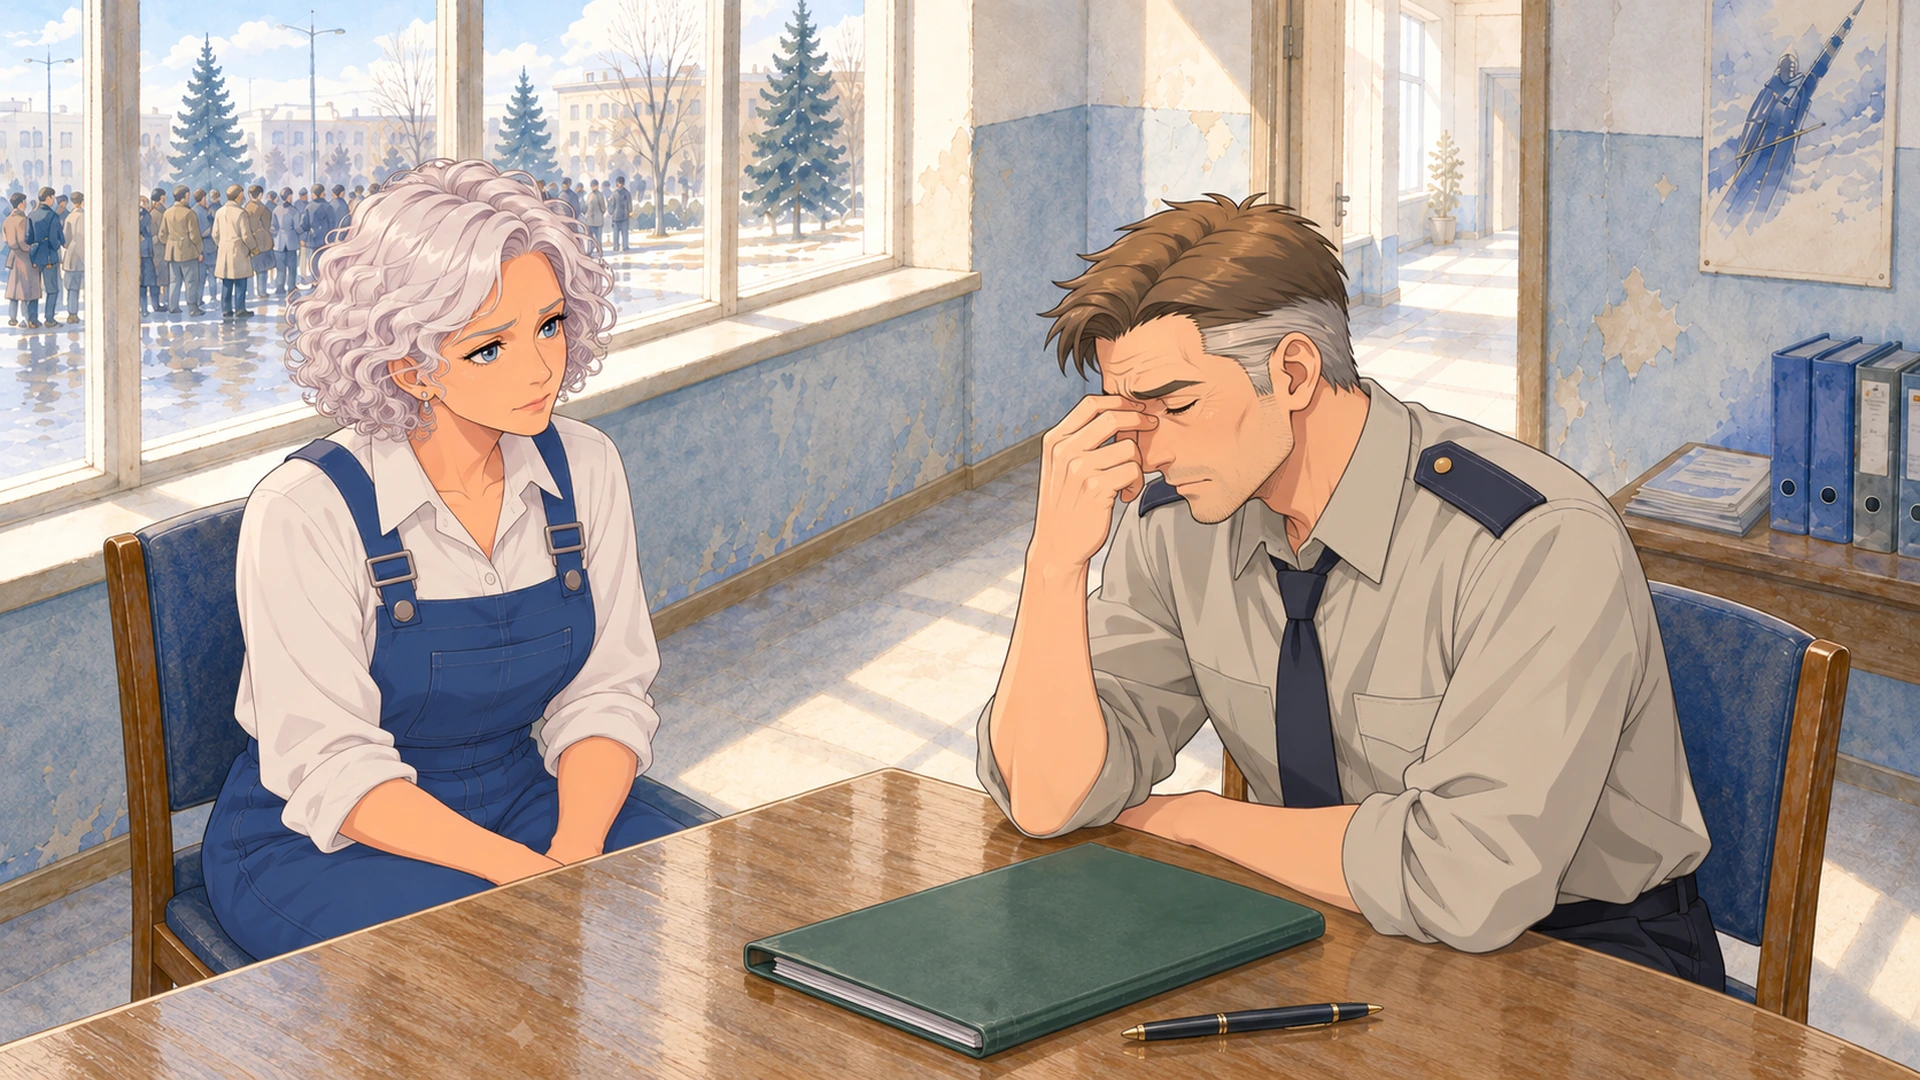
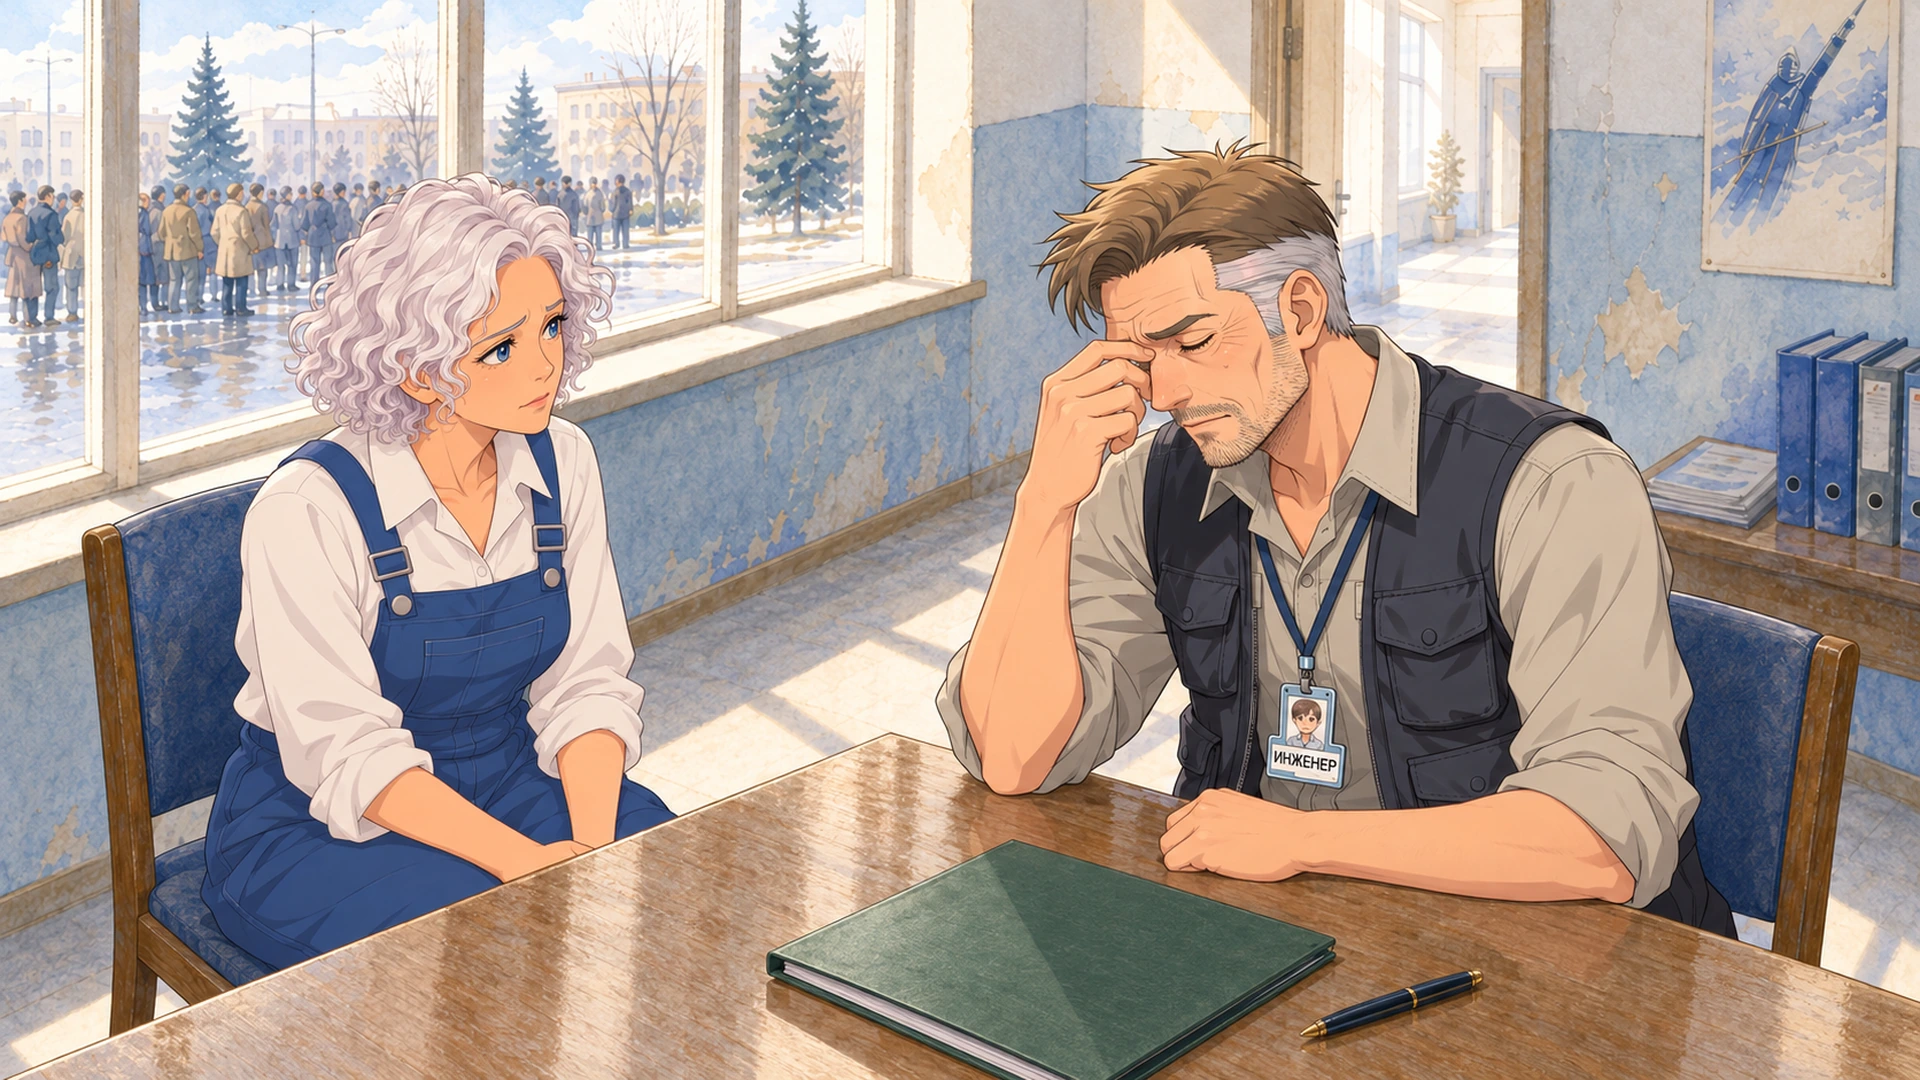
vn2: CG P4 v3 — Сергей как спрайт (щетина, жилет, бейдж)
- Иван забраковал v2: Сергей был выбрит и в галстуке, а на спрайте он небритый,
  в тёмном рабочем жилете поверх бежевой рубашки и с бейджем «ИНЖЕНЕР»
- _cg_p4v3.py: референсы = принятый кабинет cg_room_a + спрайт Сергея + тесный
  кроп лица/жилета/бейджа (_ref_sergey_face_0.png) как жёсткий лок внешности;
  в промпте явные запреты (галстука НЕТ, погон НЕТ) и ровно одна надпись в кадре
- принят вариант A (общий план от окна): CG_P4 = 'cg_p4v3_a', rec_35 пересобран
- регрессы: _vn2_cg_range 10/10, _vn2_ded_credits, _vn2_restart 3/3,
  _vn2_auto_menu, _vn2_start_mobile — всё зелёное

diff --git a/_cg_p4v3.py b/_cg_p4v3.py
@@ -1,0 +1,99 @@
+# -*- coding: utf-8 -*-
+"""P4 v3 — CG «двое в приёмной» (стр. 35 SCRIPT_CAST.md), Сергей ОДИН В ОДИН со спрайта.
+
+Правка Ивана 2026-10-25: в v2 Сергей был выбрит и в галстуке, а на спрайте он НЕБРИТЫЙ,
+в тёмном рабочем жилете и с бейджем «ИНЖЕНЕР». Совмещаем: персонаж = спрайт
+(лицо, щетина, жилет, бейдж), сцена = наш кабинет (cg_room_a), весна за окном.
+
+Бит кадра: «Сергей потер переносицу, подбирая слова, чтобы не обидеть собеседницу» —
+ему тяжело, она ещё надеется. Не приветствие, улыбок нет.
+
+Модель gpt-image-2, 16:9 1K = 4.06 ₽/кадр.
+"""
+import os, sys
+import gen, pv
+import _cg_rec23 as R
+
+HERE = os.path.dirname(os.path.abspath(gen.__file__))
+REF_ROOM = R.REF_ROOM
+REF_SERGEY = R.REF_SERGEY
+# тесный кроп спрайта (лицо + щетина + жилет + бейдж) — сильнее держит детали
+REF_SERGEY_CROP = os.path.join(HERE, "assets", "gen", "_ref_sergey_face_0.png")
+
+
+def make_crop():
+    from PIL import Image
+    im = Image.open(REF_SERGEY)
+    w, h = im.size
+    box = (int(w * 0.06), int(h * 0.00), int(w * 0.94), int(h * 0.86))
+    c = im.crop(box)
+    c.save(REF_SERGEY_CROP)
+    return REF_SERGEY_CROP
+
+# Единственная надпись, которую разрешаем модели — слово на бейдже
+TEXT_OK = (
+    "Из надписей в кадре — ТОЛЬКО слово «ИНЖЕНЕР» на бейдже Сергея, печатными буквами, "
+    "мелко и аккуратно. Никаких других надписей, букв, цифр и водяных знаков: ни на плакате, "
+    "ни на папке, ни на документах, ни на стене. "
+)
+
+SERGEY_P4 = (
+    "Сергей Лихнецкий — ОДИН В ОДИН как на втором и третьем приложенных кадрах (это его спрайт): мужчина "
+    "30–35 лет, короткие тёмно-русые волосы с проседью на висках, светлые глаза, ЛЁГКАЯ "
+    "НЕБРИТОСТЬ — короткая щетина на подбородке, щеках и над верхней губой (он НЕ чисто выбрит, "
+    "бритья нет). Одежда ровно та же, что на спрайте: тёмно-графитовый рабочий жилет с накладными "
+    "карманами и молнией поверх светло-бежевой рубашки с подвёрнутыми рукавами, на шее тёмно-синий "
+    "шнурок, на груди прямоугольный бейдж. Галстука НЕТ, погон НЕТ, форменного кителя НЕТ. "
+    "Он сидит за письменным столом, отвёл взгляд в сторону, двумя пальцами потирает переносицу — "
+    "ему тяжело подбирать слова; улыбки нет, брови сведены. Перед ним закрытая зелёная папка "
+    "с документами и ручка. "
+)
+KATE_P4 = R.KATE  # Екатерина — как в принятом CG приёмной
+KATE_P4 = (
+    "Екатерина Ивановна: женщина 50-55 лет, короткие седые ВЬЮЩИЕСЯ волосы до подбородка, яркие "
+    "голубые глаза, мягкое доброе лицо с лёгкими морщинками, синий рабочий комбинезон на лямках "
+    "поверх светлой рубашки. Она сидит на стуле с синей обивкой перед столом, спина прямая, руки "
+    "на коленях, смотрит на Сергея внимательно и ещё с надеждой — без улыбки, без слёз. "
+)
+
+SCENES = {
+    # A — средний план со стороны окна: оба в три четверти, папка между ними
+    "cg_p4v3_a": (
+        "CG-кадр визуальной новеллы 16:9: тяжёлый разговор в приёмной комиссии. "
+        + R.ROOM + SERGEY_P4 + KATE_P4 + R.WINDOW +
+        "РАКУРС: средний план от окна, камера чуть выше уровня стола. Сергей справа за столом, "
+        "Екатерина слева на стуле, между ними по диагонали край стола с закрытой папкой. Оба лица "
+        "хорошо читаются, но лицо и одежда Сергея — главное. " + R.STYLE + TEXT_OK
+    ),
+    # B — через плечо Екатерины на Сергея: её плечо в расфокусе, Сергей в фокусе
+    "cg_p4v3_b": (
+        "CG-кадр визуальной новеллы 16:9: тяжёлый разговор в приёмной комиссии. "
+        + R.ROOM + SERGEY_P4 + KATE_P4 + R.WINDOW +
+        "РАКУРС: через плечо Екатерины — на переднем плане её плечо и седые кудри в расфокусе, "
+        "в фокусе Сергей за столом, отводящий взгляд и трущий переносицу. Средний план. "
+        + R.STYLE + TEXT_OK
+    ),
+}
+
+def main(only=None, model="gpt-image-2"):
+    crop = make_crop()
+    print("[ref] %s" % os.path.relpath(crop, HERE), flush=True)
+    for name, prompt in SCENES.items():
+        if only and name not in only:
+            continue
+        opts = {"aspect_ratio": "16:9", "resolution": "1K",
+                "input_base64": [gen.b64(REF_ROOM, max_w=1024),
+                                 gen.b64(REF_SERGEY, max_w=1024),
+                                 gen.b64(crop, max_w=1024)]}
+        try:
+            q = pv.price(model, prompt, opts)
+            print("[quote] %-10s %s RUB" % (name, q.get("priceRub")), flush=True)
+            files, st = pv.generate_to_files(model, prompt, opts, outdir="assets/gen",
+                                            name="%s__%s" % (name, model), max_price_rub=12)
+            print("[OK] %-10s %s RUB -> %s" % (name, st.get("priceRub"),
+                                               os.path.relpath(files[0], HERE)), flush=True)
+        except Exception as e:
+            print("[FAIL] %-10s %s" % (name, str(e)[:240]), flush=True)
+
+if __name__ == "__main__":
+    main(sys.argv[1:] or None, os.environ.get("CG_MODEL", "gpt-image-2"))

diff --git a/_cg_p4v3_sheet.py b/_cg_p4v3_sheet.py
@@ -1,0 +1,73 @@
+# -*- coding: utf-8 -*-
+"""Лист Ивану: P4 v3 A/B (Сергей со спрайта: щетина, жилет, бейдж) + кропы в нативе."""
+import os
+from PIL import Image, ImageDraw, ImageFont
+
+HERE = os.path.dirname(os.path.abspath(__file__))
+GEN = os.path.join(HERE, "assets", "gen")
+OUT = os.path.join(HERE, "_sat")
+os.makedirs(OUT, exist_ok=True)
+
+A = os.path.join(GEN, "cg_p4v3_a__gpt-image-2_0.png")
+B = os.path.join(GEN, "cg_p4v3_b__gpt-image-2_0.png")
+
+try:
+    f = ImageFont.truetype("/usr/share/fonts/truetype/dejavu/DejaVuSans-Bold.ttf", 26)
+    fl = ImageFont.truetype("/usr/share/fonts/truetype/dejavu/DejaVuSans.ttf", 18)
+except Exception:
+    f = fl = ImageFont.load_default()
+
+items = [("A · средний план от окна (Сергей справа)", A),
+         ("B · через плечо Екатерины (Сергей в фокусе)", B)]
+
+# --- лист: два кадра полными полосами ---
+cw, pad, top, lab = 1280, 16, 56, 30
+ch = None
+for _, p in items:
+    im = Image.open(p)
+    ch = int(round(cw * im.size[1] / im.size[0]))
+    break
+W = cw + 2 * pad
+H = top + len(items) * (ch + lab + pad) + pad
+cv = Image.new("RGB", (W, H), (14, 16, 22))
+d = ImageDraw.Draw(cv)
+d.text((pad, 16), "Зарянка · P4 v3 — Сергей ОДИН В ОДИН со спрайта (щетина, жилет, бейдж «ИНЖЕНЕР»)",
+       fill=(240, 240, 245), font=f)
+y = top
+for labt, p in items:
+    im = Image.open(p).convert("RGB").resize((cw, ch), Image.LANCZOS)
+    cv.paste(im, (pad, y))
+    d.rectangle([pad, y, pad + cw - 1, y + ch - 1], outline=(48, 52, 64))
+    d.text((pad, y + ch + 5), labt, fill=(212, 216, 224), font=fl)
+    y += ch + lab + pad
+out1 = os.path.join(OUT, "sheet_p4v3.png")
+cv.save(out1)
+print("saved", out1, cv.size)
+
+# --- детали: кропы в НАТИВНОМ разрешении (проверка щетины/жилета/букв на бейдже) ---
+crops = []
+for labt, p in items:
+    im = Image.open(p).convert("RGB")
+    w, h = im.size
+    # правая часть кадра, где Сергей; натив, без ресайза
+    box = (int(w * 0.46), int(h * 0.06), int(w * 0.99), int(h * 0.94))
+    c = im.crop(box)
+    crops.append((labt + " · натив, правая часть", c))
+
+pad2 = 14
+cw2 = max(c.size[0] for _, c in crops)
+top2 = 50
+W2 = cw2 + 2 * pad2
+H2 = top2 + sum(c.size[1] + 26 + pad2 for _, c in crops) + pad2
+cv2 = Image.new("RGB", (W2, H2), (14, 16, 22))
+d2 = ImageDraw.Draw(cv2)
+d2.text((pad2, 14), "P4 v3 · детали в нативном разрешении", fill=(240, 240, 245), font=f)
+y = top2
+for labt, c in crops:
+    cv2.paste(c, (pad2, y))
+    d2.rectangle([pad2, y, pad2 + c.size[0] - 1, y + c.size[1] - 1], outline=(48, 52, 64))
+    d2.text((pad2, y + c.size[1] + 4), labt, fill=(212, 216, 224), font=fl)
+    y += c.size[1] + 26 + pad2
+out2 = os.path.join(OUT, "sheet_p4v3_detail.png")
+cv2.save(out2)
+print("saved", out2, cv2.size)

diff --git a/_vn2_build.py b/_vn2_build.py
@@ -300,7 +300,9 @@ def pages(text, maxn=2):
 CG_DIR = os.path.join(IMG, 'cg')
 os.makedirs(CG_DIR, exist_ok=True)
 # имя в vn2 <- исходник в assets/gen (выбор варианта — константы ниже)
-CG_P4 = 'cg_p4v2_a'          # P4 v2 на стр. 35..37: 'a' (общий, оба лица) | 'b' (через плечо)
+CG_P4 = 'cg_p4v3_a'          # P4 на стр. 35..37. v3 = Сергей со спрайта (щетина, жилет, бейдж);
+                             # 'a' (общий от окна — принят Иваном 2026-10-25) | 'b' (через плечо).
+                             # v2 (бритый, в галстуке) забракован — оставлен исходником в assets/gen.
 CG_SAD = 'cg_room_a'         # сникшая Екатерина на стр. 59..61 (принят 2026-10-24)
 CG_SOURCES = {'rec_35': CG_P4, 'rec_48': CG_SAD}
 for _out, _stem in CG_SOURCES.items():

diff --git a/STATUS.md b/STATUS.md
@@ -667,6 +667,16 @@ https://piroman99.github.io/zarynka/vn2/ (опубликованный `rebuild`
   ожидания и замер попадает на следующую страницу (на этом тест уже соврал один раз).
 - Лист Ивану: `_sat/sheet_p4v2.png` (A/B + в игре + выход Екатерины + грустный CG).
 
+**P4 v3 (19:05–19:06, ждёт выбора A/B):** Иван забраковал v2 — там Сергей выбрит и в
+галстуке, а на спрайте он небритый, в тёмном рабочем жилете и с бейджем «ИНЖЕНЕР».
+Генератор `_cg_p4v3.py`: референсы = `cg_room_a` (кабинет) + `sergey_eng_old__flux-2_0.jpg`
+(спрайт) + тесный кроп лица/жилета/бейджа `assets/gen/_ref_sergey_face_0.png` (`make_crop`).
+В промпте жёсткая локальность внешности + явные запреты («галстука НЕТ, погон НЕТ») и
+разрешение ровно на одну надпись — «ИНЖЕНЕР» на бейдже (по правилу про буквы в кадре).
+Кадры `cg_p4v3_a` (общий от окна) / `cg_p4v3_b` (через плечо Екатерины), 8.12 ₽.
+Лист `_sat/sheet_p4v3.png` + детали в нативе `_sat/sheet_p4v3_detail.png`
+(`_cg_p4v3_sheet.py`), отправлен Ивану. В сборке пока `CG_P4 = 'cg_p4v2_a'`.
+
 Ещё потрачено (впустую, на неверный бит): два кадра «приветствие в приёмной»
 `cg_rec23_a/b` — 8.12 ₽. Лежат в `assets/gen/`, в сборку не идут.
 
